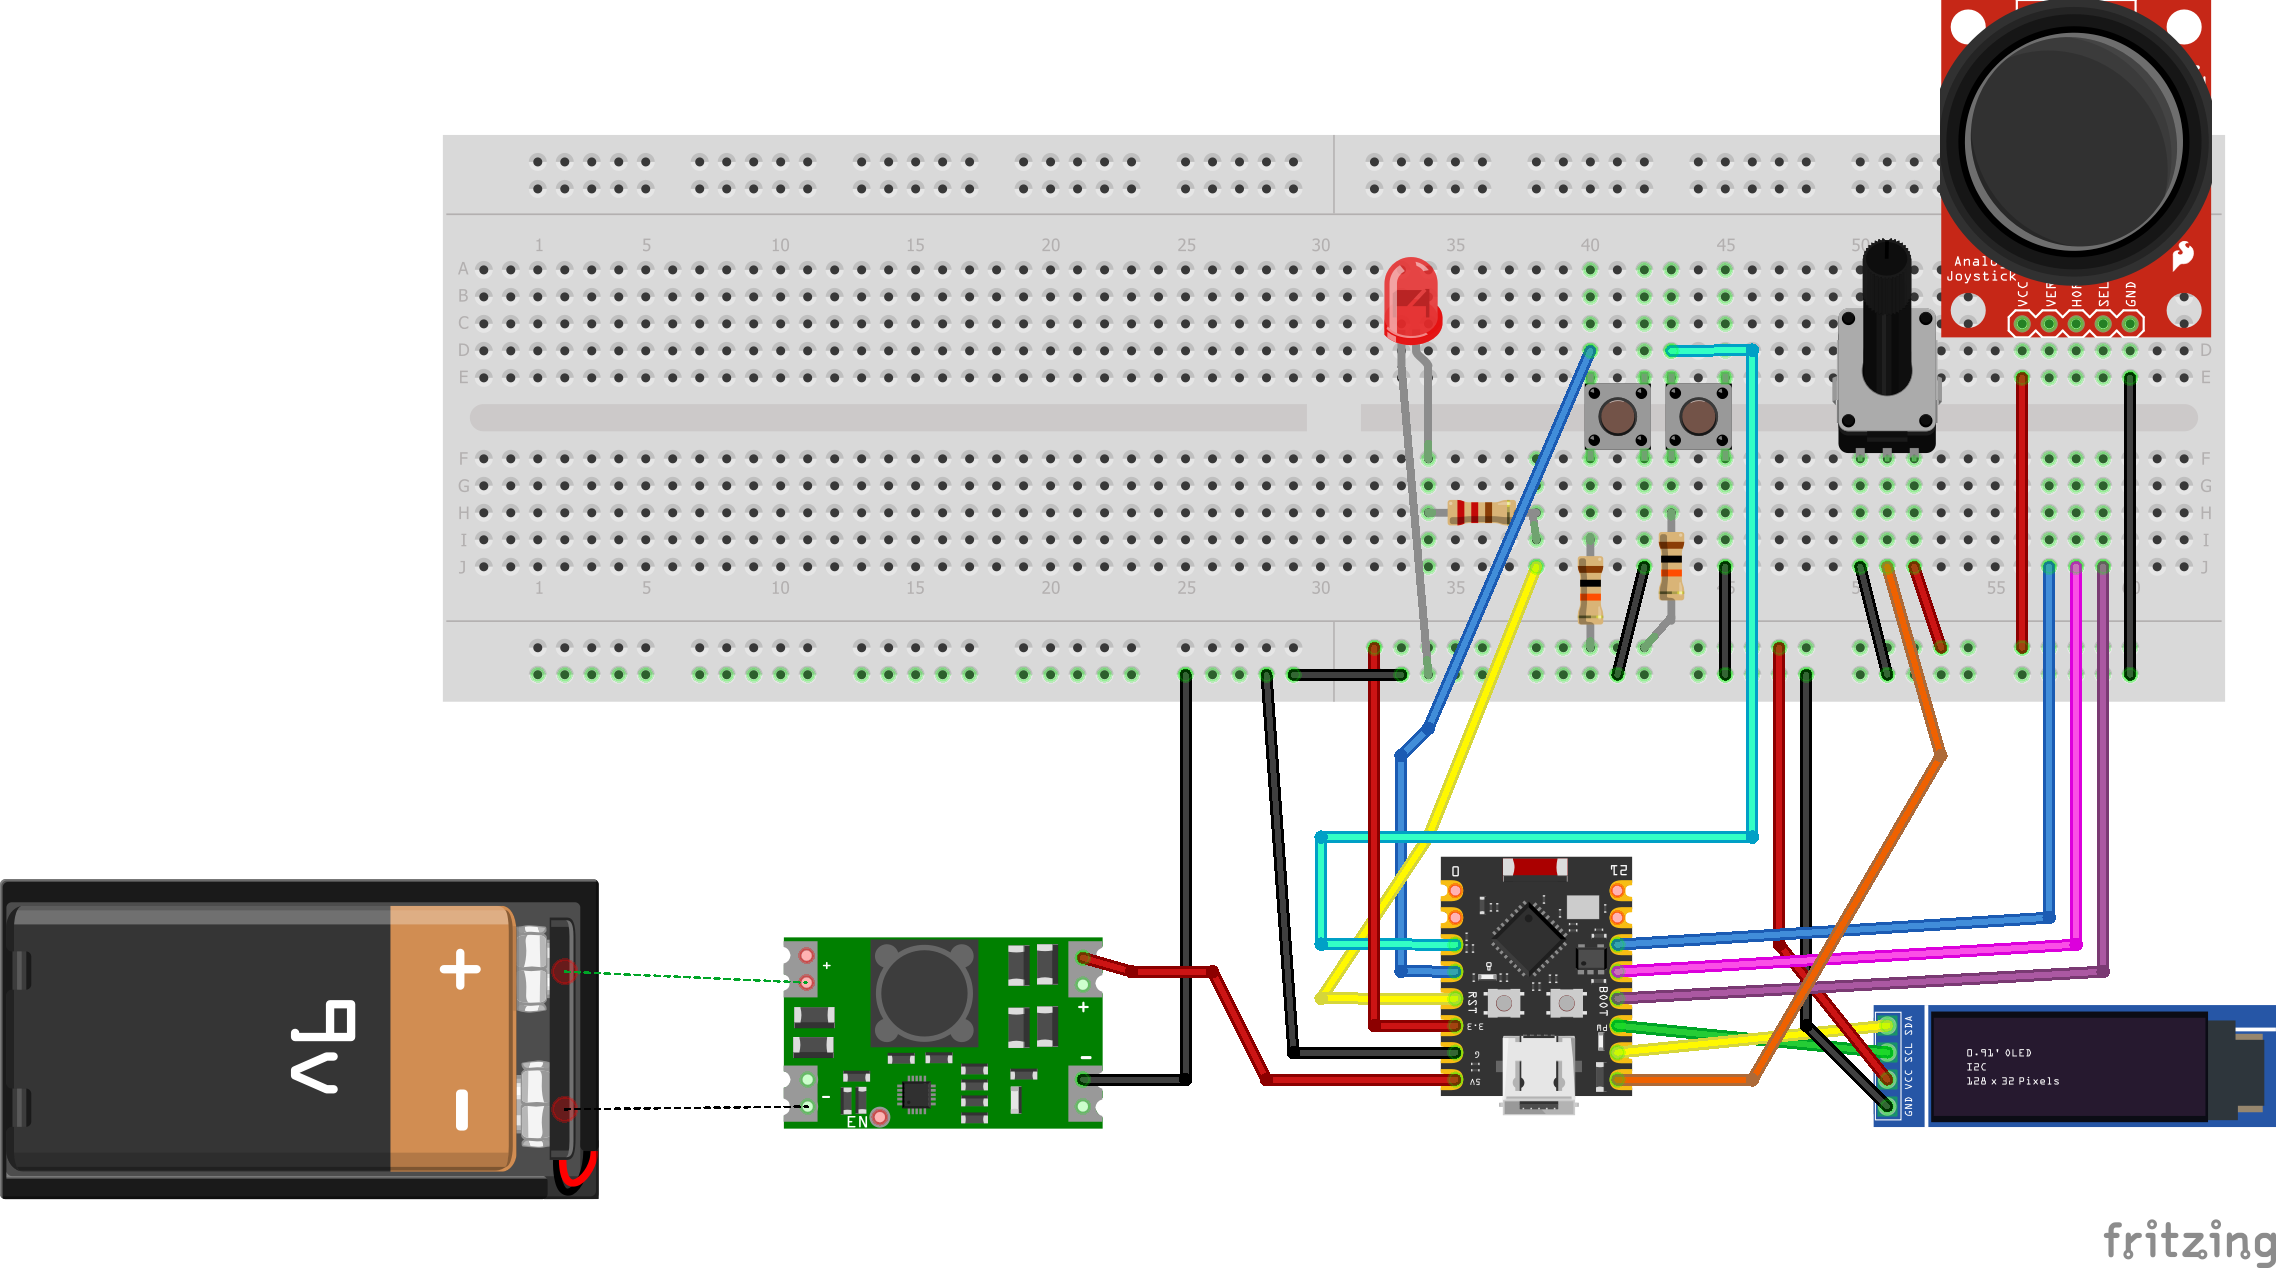
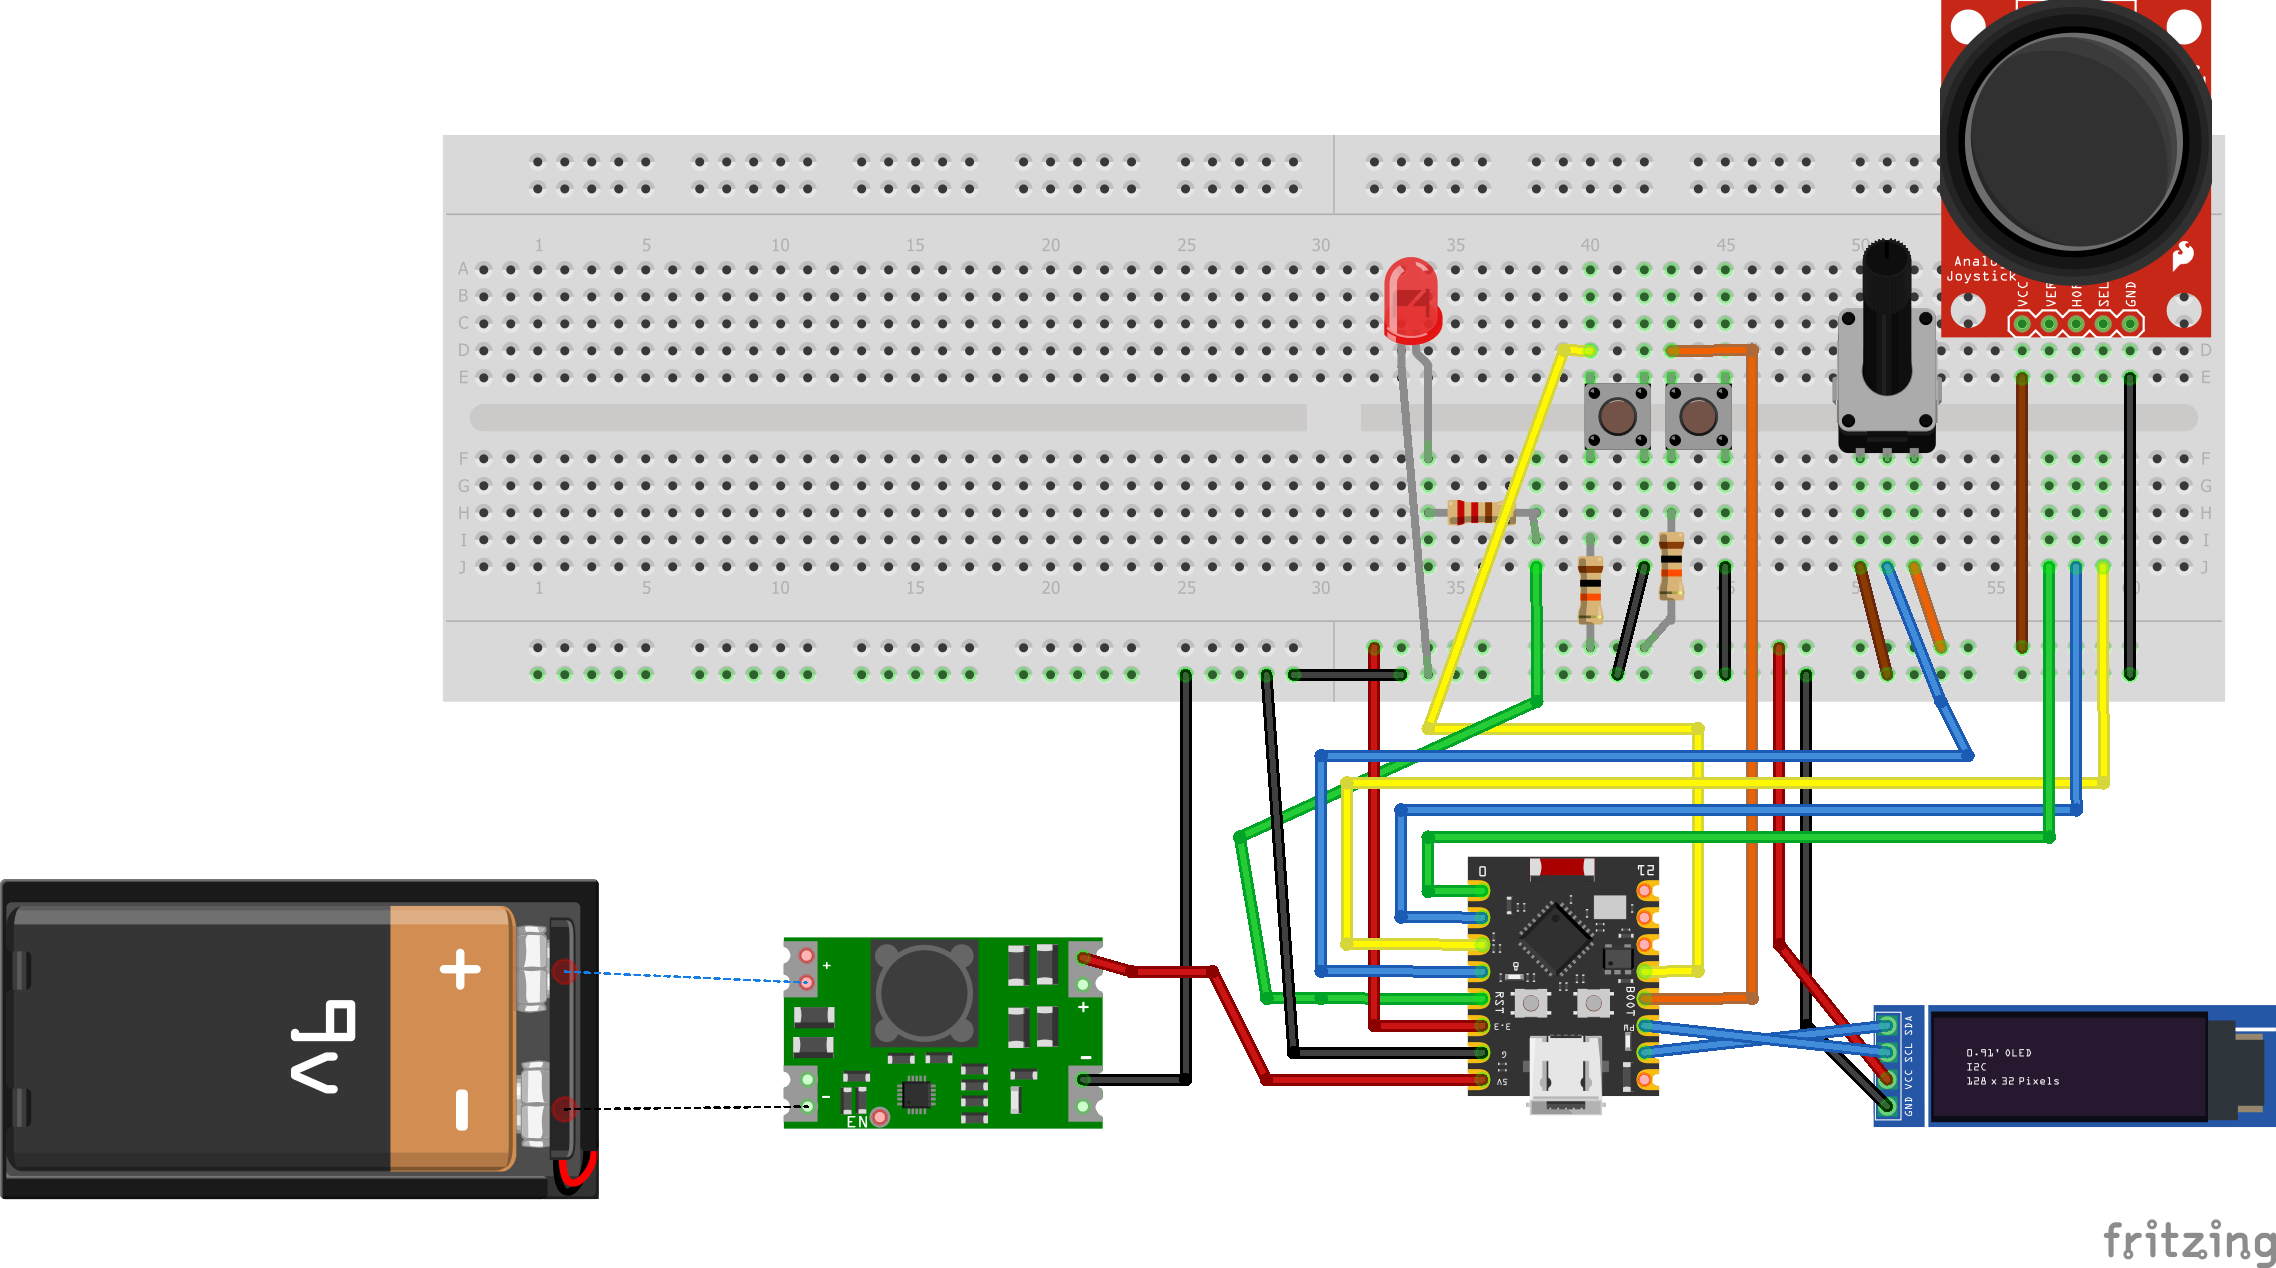
joystick logic and display of values

Changed region(s): [[0.5303, 0.2461, 0.9359, 0.892]]

diff --git a/Control/src/main.cpp b/Control/src/main.cpp
@@ -61,6 +61,14 @@ constexpr int DEFAULT_D = 1;
 #define JOYSTICK_Y ADC_CHANNEL_1 // GPIO01
 #define JOYSTICK_BUTTON GPIO_NUM_2
 
+void update_movement_display()
+{
+    // Line 3: Joystick Values
+    memset(display_buffer, 0, sizeof(display_buffer));
+    snprintf(display_buffer, sizeof(display_buffer), "X:%5d Y:%5d", current_status.current_X, current_status.current_Y);
+    ssd1306_display_text(&dev, 3, display_buffer, 16, false);
+}
+
 void update_display() {
     ssd1306_clear_screen(&dev, false);
 
@@ -70,20 +78,36 @@ void update_display() {
              current_status.ModeToString(), current_status.ParamToString());
     ssd1306_display_text(&dev, 0, display_buffer, 16, false);
 
-    // Line 1: PID Values
-    memset(display_buffer, 0, sizeof(display_buffer));
-    snprintf(display_buffer, sizeof(display_buffer), "P: %d", current_status.current_P);
-    ssd1306_display_text(&dev, 1, display_buffer, 16, false);
+   // Line 2: PID Headers
+   memset(display_buffer, 0, sizeof(display_buffer));
+   snprintf(display_buffer, sizeof(display_buffer), "%3s %3s %4s", "P", "I", "D");
+   ssd1306_display_text(&dev, 1, display_buffer, 16, false);
 
     // Line 2: PID Values
     memset(display_buffer, 0, sizeof(display_buffer));
-    snprintf(display_buffer, sizeof(display_buffer), "I: %d", current_status.current_I);
+    snprintf(display_buffer, sizeof(display_buffer), "%3d %3d %4.1f", current_status.current_P, current_status.current_I, current_status.current_D);
     ssd1306_display_text(&dev, 2, display_buffer, 16, false);
 
-    // Line 3: PID Values
-    memset(display_buffer, 0, sizeof(display_buffer));
-    snprintf(display_buffer, sizeof(display_buffer), "D: %.1f", current_status.current_D);
-    ssd1306_display_text(&dev, 3, display_buffer, 16, false);
+    // Line 3: Joystick Values
+    update_movement_display();
+    // memset(display_buffer, 0, sizeof(display_buffer));
+    // snprintf(display_buffer, sizeof(display_buffer), "X:%d Y:%d", current_status.current_X, current_status.current_Y);
+    // ssd1306_display_text(&dev, 3, display_buffer, 16, false);
+
+    // // Line 1: PID Values
+    // memset(display_buffer, 0, sizeof(display_buffer));
+    // snprintf(display_buffer, sizeof(display_buffer), "P: %d", current_status.current_P);
+    // ssd1306_display_text(&dev, 1, display_buffer, 16, false);
+
+    // // Line 2: PID Values
+    // memset(display_buffer, 0, sizeof(display_buffer));
+    // snprintf(display_buffer, sizeof(display_buffer), "I: %d", current_status.current_I);
+    // ssd1306_display_text(&dev, 2, display_buffer, 16, false);
+
+    // // Line 3: PID Values
+    // memset(display_buffer, 0, sizeof(display_buffer));
+    // snprintf(display_buffer, sizeof(display_buffer), "D: %.1f", current_status.current_D);
+    // ssd1306_display_text(&dev, 3, display_buffer, 16, false);
 }
 
 void update_pid(int orientation)
@@ -182,6 +206,21 @@ void app_main(void)
     adc_cali_handle_t adc1_cali_joy_y_handle = NULL;
     bool do_calibration1_joy_y = example_adc_calibration_init(ADC_UNIT_1, JOYSTICK_Y, ADC_ATTEN, &adc1_cali_joy_y_handle);    
 
+    // calculate median value for joystick
+    int median_value_joystick_x = 0;
+    int median_value_joystick_y = 0;
+    for (int i = 0; i < 50; i++) {
+        ESP_ERROR_CHECK(adc_oneshot_read(adc1_handle, JOYSTICK_X, &raw_value_joystick_x));
+        ESP_ERROR_CHECK(adc_oneshot_read(adc1_handle, JOYSTICK_Y, &raw_value_joystick_y));
+        median_value_joystick_x += raw_value_joystick_x;
+        median_value_joystick_y += raw_value_joystick_y;
+    }
+    median_value_joystick_x /= 50;
+    median_value_joystick_y /= 50;
+    current_status.default_X = median_value_joystick_x;
+    current_status.default_Y = median_value_joystick_y;
+    ESP_LOGI(JOYSTICK_TAG, "Median X: %d Y: %d", median_value_joystick_x, median_value_joystick_y);
+
     // Configure button with pull-down
     gpio_config_t io_conf;
     io_conf.intr_type = GPIO_INTR_DISABLE; // Disable interrupt
@@ -231,26 +270,17 @@ void app_main(void)
             update_pid(pid_orientation);
         }
 
-        if (current_status.HasChanged())
-        {
-            ESP_LOGI(MAIN_TAG, "Current Mode: %s - Current Param: %s.", current_status.ModeToString(), current_status.ParamToString());
-            ESP_LOGI(ADC_TAG, "ADC%d Channel[%d] Raw Data: %d", ADC_UNIT_1 + 1, POT_ADC_CHANNEL, current_status.adc_raw);
-            ESP_LOGI(ADC_TAG, "ADC%d Channel[%d] Cali Voltage: %d mV", ADC_UNIT_1 + 1, POT_ADC_CHANNEL, current_status.voltage);
-
-            update_display();
-        }
-
         // Read joystick values
-        if (gpio_get_level(JOYSTICK_BUTTON))
-        {
-            ESP_LOGI(JOYSTICK_TAG, "Joystick Button Pressed!");
-            // Perform action when joystick button is pressed
-        }
-        else
-        {
-            ESP_LOGI(JOYSTICK_TAG, "Joystick Button Released!");
-            // Perform action when joystick button is released
-        }
+        // if (gpio_get_level(JOYSTICK_BUTTON))
+        // {
+        //     ESP_LOGI(JOYSTICK_TAG, "Joystick Button Pressed!");
+        //     // Perform action when joystick button is pressed
+        // }
+        // else
+        // {
+        //     ESP_LOGI(JOYSTICK_TAG, "Joystick Button Released!");
+        //     // Perform action when joystick button is released
+        // }
         ESP_ERROR_CHECK(adc_oneshot_read(adc1_handle, JOYSTICK_X, &raw_value_joystick_x));
         ESP_ERROR_CHECK(adc_oneshot_read(adc1_handle, JOYSTICK_Y, &raw_value_joystick_y));
         if(do_calibration1_joy_x) {
@@ -259,11 +289,23 @@ void app_main(void)
         if(do_calibration1_joy_y) {
             ESP_ERROR_CHECK(adc_cali_raw_to_voltage(adc1_cali_joy_y_handle, raw_value_joystick_y, &voltage_value_joystick_y));
         }
-        ESP_LOGI(JOYSTICK_TAG, "X:%d Y:%d", raw_value_joystick_x, raw_value_joystick_y);
-        // ESP_LOGI(JOYSTICK_TAG, "X Raw Data: %d", raw_value_joystick_x);
-        // ESP_LOGI(JOYSTICK_TAG, "X Voltage: %d mV", voltage_value_joystick_x);
-        // ESP_LOGI(JOYSTICK_TAG, "Y Raw Data: %d", raw_value_joystick_y);
-        // ESP_LOGI(JOYSTICK_TAG, "Y Voltage: %d mV", voltage_value_joystick_y);
+        // ESP_LOGI(JOYSTICK_TAG, "X:%d Y:%d", raw_value_joystick_x, raw_value_joystick_y);
+        current_status.UpdateMovement(raw_value_joystick_x, raw_value_joystick_y);
+        
+        if (current_status.HasChanged())
+        {
+            ESP_LOGI(MAIN_TAG, "Current Mode: %s - Current Param: %s.", current_status.ModeToString(), current_status.ParamToString());
+            ESP_LOGI(ADC_TAG, "ADC%d Channel[%d] Raw Data: %d", ADC_UNIT_1 + 1, POT_ADC_CHANNEL, current_status.adc_raw);
+            ESP_LOGI(ADC_TAG, "ADC%d Channel[%d] Cali Voltage: %d mV", ADC_UNIT_1 + 1, POT_ADC_CHANNEL, current_status.voltage);
+            ESP_LOGI(PARAMS_TAG, "P: %d I: %d D: %.1f", current_status.current_P, current_status.current_I, current_status.current_D);
+            ESP_LOGI(JOYSTICK_TAG, "X:%d Y:%d", current_status.current_X, current_status.current_Y);
+            
+            update_display();
+        } 
+        else 
+        {
+            update_movement_display();
+        }
 
         vTaskDelay(pdMS_TO_TICKS(100));
     }

diff --git a/Control/src/ControlStatus.cpp b/Control/src/ControlStatus.cpp
@@ -12,9 +12,19 @@ ControlStatus::ControlStatus(int p, int i, float d, ModeType mode, ParamType par
         current_mode(mode),
         current_param(param),
         adc_raw{0},
-        voltage{0}
+        voltage{0},
+        default_X(0),
+        current_X(0),
+        default_Y(0),
+        current_Y(0)
 {
 };
+
+bool ControlStatus::MovementChanged()
+{
+    return this->current_X != 0 || this->current_Y != 0;
+    // return (abs(current_X - default_X) > 50 || abs(current_Y - default_Y) > 50);
+}
 
 int ControlStatus::ControlChanged()
 {
@@ -49,7 +59,7 @@ bool ControlStatus::HasChanged()
         return true;
     }
 
-    return false;
+    return this->MovementChanged();
 };
 
 // Mode
@@ -91,3 +101,25 @@ void ControlStatus::SetVoltage(int value)
     prev_voltage = this->voltage;
     this->voltage = value;
 };
+
+// Movement
+void ControlStatus::UpdateMovement(int x, int y)
+{
+    
+    if (abs(x - this->default_X) > 50)
+    {
+        this->current_X = x - this->default_X;
+    }
+    else
+    {
+        this->current_X = 0;
+    }
+    if (abs(y - this->default_Y) > 50)
+    {
+        this->current_Y = y - this->default_Y;
+    }
+    else
+    {
+        this->current_Y = 0;
+    }
+}

diff --git a/Control/include/ControlStatus.h b/Control/include/ControlStatus.h
@@ -29,8 +29,11 @@ class ControlStatus {
         ParamType current_param;
         int adc_raw;
         int voltage;
-        // std::array<std::array<int, 10>, 2> adc_raw{};
-        // std::array<std::array<int, 10>, 2> voltage{};
+
+        int default_X;
+        int current_X;
+        int default_Y;
+        int current_Y;
 
         ControlStatus();
         ControlStatus(int p, int i, float d, ModeType mode, ParamType param);
@@ -43,6 +46,8 @@ class ControlStatus {
         const char* ParamToString();
         void SetRaw(int value);
         void SetVoltage(int value);
+        bool MovementChanged();
+        void UpdateMovement(int x, int y);
 };
 
 
